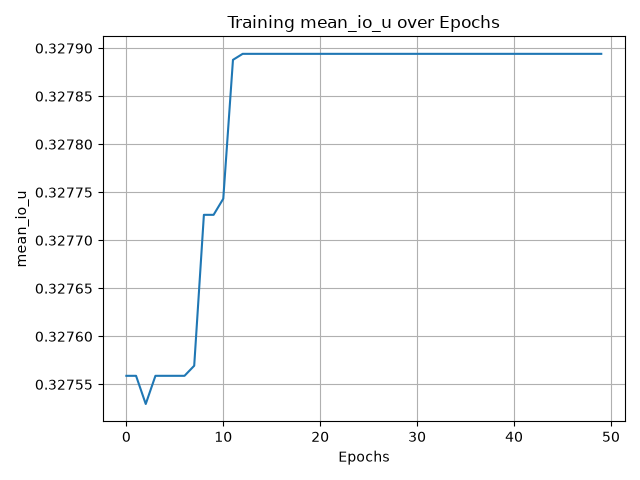
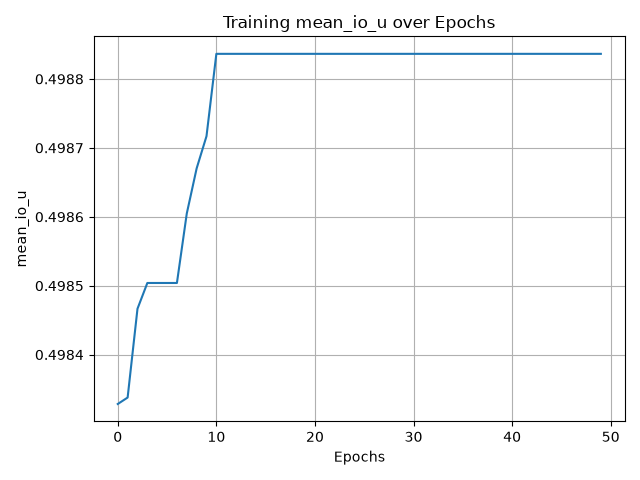
Added testing capabilities, also included initial loss and metric plots (over very small dataset)

diff --git a/initial-data-cleaning/run_model.py b/initial-data-cleaning/run_model.py
@@ -1,3 +1,12 @@
+import os
+# 1. Disable cuDNN autotuning BEFORE TensorFlow loads
+os.environ['TF_CUDNN_USE_AUTOTUNE'] = '0'
+os.environ['TF_DETERMINISTIC_OPS'] = '1'
+
+# 2. Disable XLA compiler flags BEFORE TensorFlow loads
+os.environ['TF_XLA_FLAGS'] = '--tf_xla_enable_xla_devices=false'
+os.environ['TF_XLA_AUTO_JIT'] = '0'
+
 from read_training_data import get_tension_data, get_raw_data, get_lengths, calculate_res_freq, create_torch_datasets, create_res_freq_map
 from training_testing import train_keras_model
 from models import sig2sig_unet
@@ -11,6 +20,8 @@ import tensorflow as tf
 
 # code from gemini to bypass specific error
 gpus = tf.config.list_physical_devices('GPU')
+tf.config.optimizer.set_jit(False)
+
 if gpus:
     try:
         for gpu in gpus:
@@ -21,11 +32,6 @@ if gpus:
 from torch.utils.data import DataLoader
 from torch.utils.data import TensorDataset, random_split
 
-# code from gemini to bypass specific error
-import os
-os.environ['TF_XLA_FLAGS'] = '--tf_xla_enable_xla_devices=false'
-os.environ['TF_XLA_AUTO_JIT'] = '0'
-os.environ['TF_CUDNN_USE_AUTOTUNE'] = '0'
 
 def prepare_data(raw_path, proc_path, stage):
     
@@ -90,6 +96,11 @@ def train_model(model, dloader_train, epochs, save_model_path, optim, loss, batc
     history, training_time = train_keras_model(model, dloader_train, epochs, save_model_path, optim, loss, batch_size, patience)
     return (history, training_time)
 
+def test_model(model_path, dloader_test, batch_size):
+    model = tf.keras.models.load_model(model_path)
+    testing = model.evaluate(dloader_test, batch_size=batch_size)
+    return testing
+
 def plot_history(key, history, save_path):
     fig, ax = plt.subplots()
     ax.plot(history[key], label=f'Training {key}')
@@ -102,6 +113,10 @@ def plot_history(key, history, save_path):
 
 
 if __name__ == "__main__":
+    if len(tf.config.list_physical_devices("GPU")) == 0:
+        print("No GPU found. Exiting...")
+        exit(1)
+        
     raw_path = "/vols/dune/amh24/APA-DWA-measurements/4ml/scanData/raw/APA_APA30_PostCold_27_01_26/"
     proc_path = "/vols/dune/amh24/APA-DWA-measurements/4ml/scanData/processed/APA30_PostCold_27_01_26.json"
     stage = "DWA Development"
@@ -122,4 +137,6 @@ if __name__ == "__main__":
     plot_history('loss', history, "UNet/figures/training_loss_plot01.png")
     plot_history('mean_io_u', history, "UNet/figures/meaniou_plot01.png")
 
+    testing = test_model(save_model_path, dloader_test, batch_size)
+    print(f"Testing results\n Loss: {testing[0]} \n Mean IOU: {testing[1]}")
 
